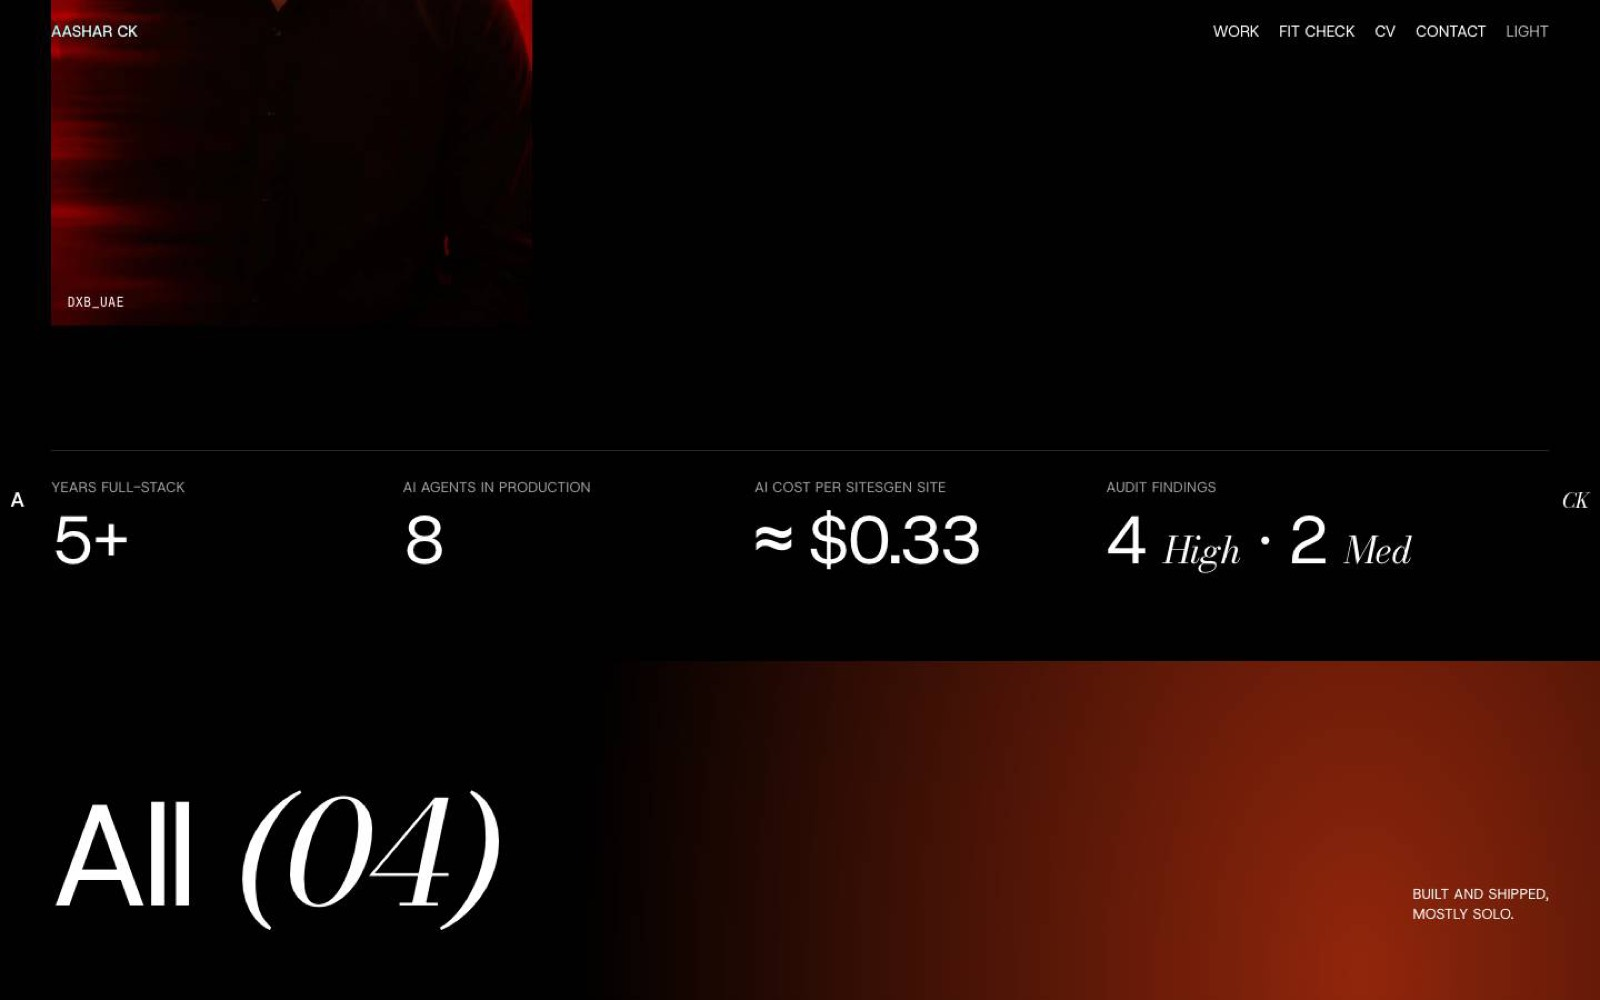
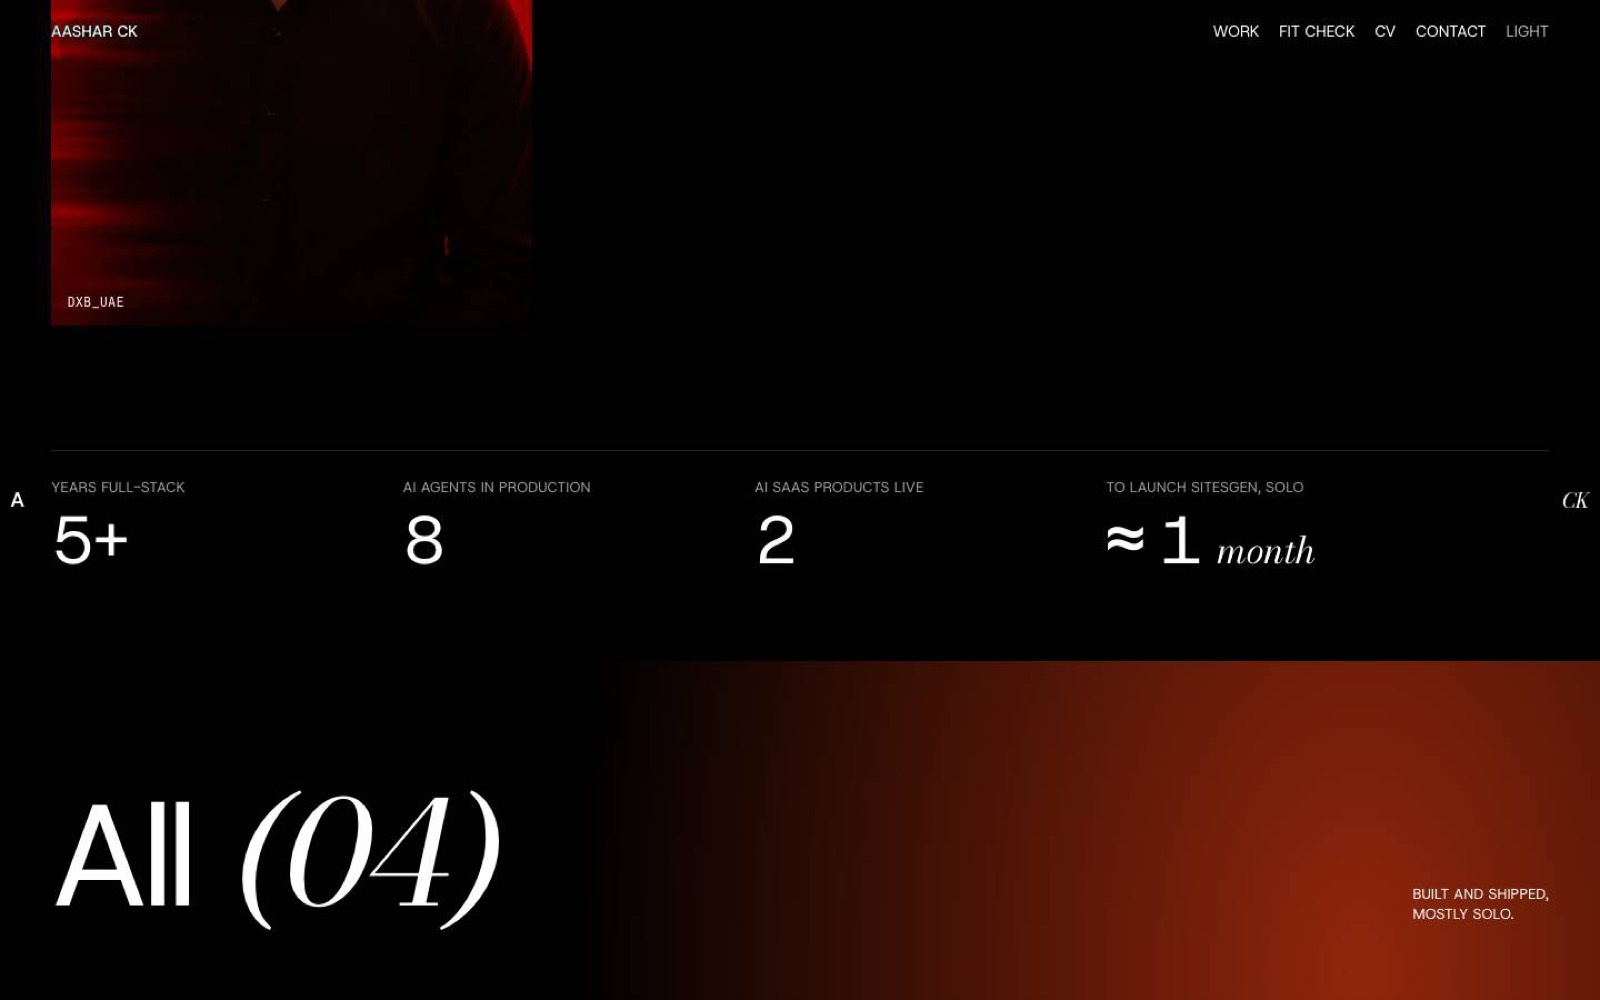
Numbers strip: 2 AI SaaS products live and about 1 month to launch SitesGen
Replaces the cost-per-site and audit-findings numbers.

Changed region(s): [[0.4688, 0.465, 0.625, 0.589], [0.6875, 0.465, 0.875, 0.589]]

diff --git a/src/app/page.tsx b/src/app/page.tsx
@@ -189,13 +189,13 @@ export default function Home() {
               <dd>8</dd>
             </div>
             <div>
-              <dt className="caps">AI cost per SitesGen site</dt>
-              <dd>≈ $0.33</dd>
+              <dt className="caps">AI SaaS products live</dt>
+              <dd>2</dd>
             </div>
             <div>
-              <dt className="caps">Audit findings</dt>
+              <dt className="caps">To launch SitesGen, solo</dt>
               <dd>
-                4 <em>High</em> · 2 <em>Med</em>
+                ≈ 1 <em>month</em>
               </dd>
             </div>
           </dl>

diff --git a/DECISIONS.md b/DECISIONS.md
@@ -69,5 +69,5 @@ Made while Aashar was away. Each one is easy to reverse; the reason is next to i
   - Phones get no pinning or growing: the project is a normal image with its details below (a full-screen crop of a landscape screenshot was unreadable).
   - **Portrait:** Aashar's own red, motion-streaked portrait (sent Oct 22, already styled like the reference, so used as-is): shown full 9:16 on desktop and as a square crop on phones (Aashar's call, Oct 22), art-directed with `<picture>` so each device downloads only its own version (`aashar-portrait-tall.jpg`, `aashar-portrait-square.jpg`) and to a taller crop for the share card (`aashar-og.jpg`). The earlier canvas-processed headshot is replaced.
 - **Stock video (Aashar's call, Oct 21):** two free-licence Pexels clips, used only as atmosphere, never as project footage: hero background "Abstract Black Liquid Motion Background" by 3D Render (pexels.com/video/29848606) and services panel "A close up of a red and orange swirl" by Kmeel.com Videos (pexels.com/video/19827951). Each is trimmed to a seamless 12 s loop (6 s forward + reversed) with ffmpeg: `public/media/hero-liquid.mp4` 2.4 MB, `services-swirl.mp4` 1.3 MB, plus posters. They are attached client-side on screens ≥ 861 px only, and not at all under reduced motion or data saver; phones fetch nothing. Hidden in light theme. Hero letter-rise is desktop-only too (on phones it delayed the largest paint).
-- **Featured-project block removed (Oct 22, Aashar):** the "5+" numeral, the full-screen SitesGen screenshot that grew and pinned, and the "20–26 ©" panel sliding over it didn't make sense to him (a landing-page screenshot in the middle of the page). Replaced with a quiet numbers strip under About: 5+ years full-stack · 8 AI agents in production · ≈ $0.33 AI cost per SitesGen site · 4 High · 2 Medium audit findings. SitesGen stays first in "All (04)" and has its case study.
+- **Featured-project block removed (Oct 22, Aashar):** the "5+" numeral, the full-screen SitesGen screenshot that grew and pinned, and the "20–26 ©" panel sliding over it didn't make sense to him (a landing-page screenshot in the middle of the page). Replaced with a quiet numbers strip under About: 5+ years full-stack · 8 AI agents in production · 2 AI SaaS products live (SitesGen, TraccoAI) · ≈ 1 month to launch SitesGen solo (Aashar swapped out the cost-per-site and audit numbers). SitesGen stays first in "All (04)" and has its case study.
 - **Git:** no Claude co-author trailers or "Generated with" lines in commits or PRs from Oct 22 on (Aashar's call). The 13 commits already merged to GitHub's main keep theirs: he chose not to rewrite published history.
